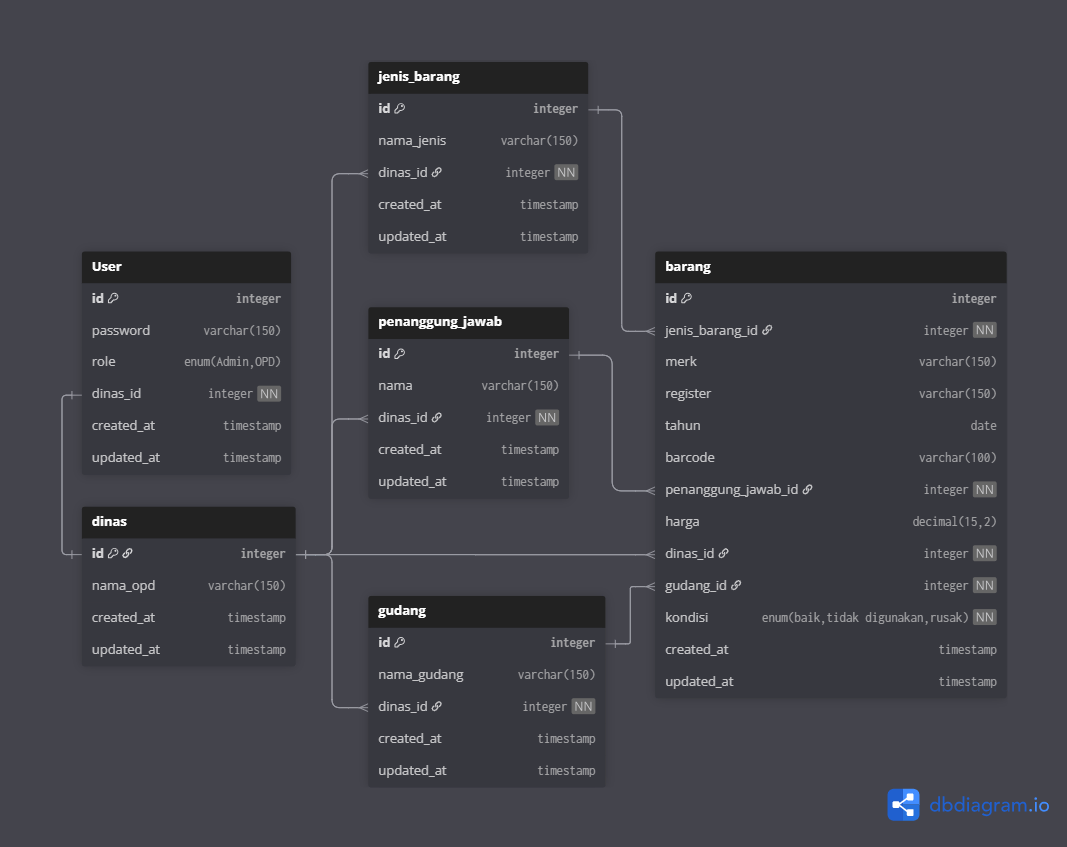
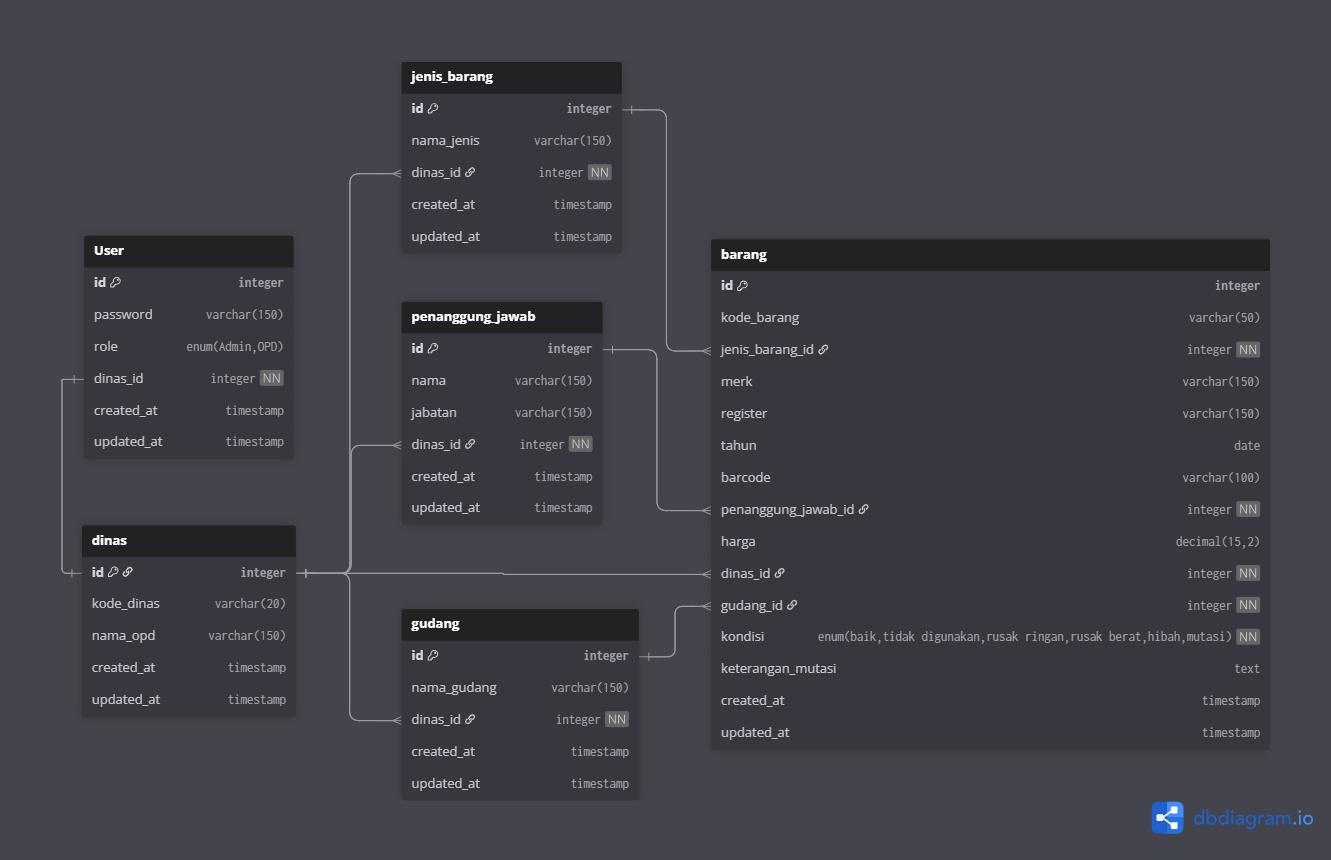
add new feature download report by jenis_aset, add feature filter barang by jenis_aset

diff --git a/app/Filament/Resources/BarangResource.php b/app/Filament/Resources/BarangResource.php
@@ -127,14 +127,49 @@ class BarangResource extends Resource
                     ->image()
                     ->disk('public')
                     ->directory('barang')
-                    ->maxSize(100)
+                    ->maxSize(200)
                     ->required()
                     ->validationMessages([
                         'max' => 'Ukuran file terlalu besar, maksimal 100 KB.',
                     ])
                 ])->columns(2),
 
-                Forms\Components\Section::make('Lokasi & Penanggung Jawab')
+
+                Forms\Components\Section::make('Jenis Aset & Syarat Wajib')
+                    ->schema([
+                       Forms\Components\Select::make('jenis_aset')
+                        ->reactive() 
+                        ->required()
+                        ->options([
+                            'aset tetap' => 'Aset Tetap',
+                            'aset ekstrakompatibel' => 'Aset Ekstrakompatibel',
+                            'aset barjas' => 'Aset Barjas',
+                        ])
+                        ->afterStateUpdated(function ($state, Set $set) {
+                            $set('info_jenis_aset', match ($state) {
+                                'aset tetap' =>
+                                    "Aset berwujud yang digunakan lebih dari 12 bulan dan dicatat dalam neraca.\nContoh: kendaraan, gedung, komputer.",
+                                'aset ekstrakompatibel' =>
+                                    "Barang milik instansi yang tidak dicatat dalam neraca.\nContoh: ATK, buku, perlengkapan habis pakai.",
+                                'aset barjas' =>
+                                    "Barang dan/atau jasa hasil pengadaan.\nDapat menghasilkan aset tetap atau barang habis pakai.",
+                                default => '',
+                            });
+                        }),
+
+
+                        Forms\Components\Placeholder::make('info_jenis_aset')
+                            ->label('Syarat Wajib Terpenuhi Setiap Jenis Aset')
+                            ->content(fn (Get $get) => match ($get('jenis_aset')) {
+                                'aset tetap' => "Aset berwujud yang digunakan lebih dari 12 bulan dan dicatat dalam neraca.\nContoh: kendaraan, gedung, komputer.",
+                                'aset ekstrakompatibel' => "Barang milik instansi yang tidak dicatat dalam neraca.\nContoh: ATK, buku, perlengkapan habis pakai.",
+                                'aset barjas' => "Barang dan/atau jasa hasil pengadaan.\nDapat menghasilkan aset tetap atau barang habis pakai.",
+                                default => '-',
+                            })
+                    ])->columns(2),
+                    
+                
+                    Forms\Components\Section::make('Lokasi & Penanggung Jawab')
                     ->schema([
                         Forms\Components\Select::make('gudang_id')
                             ->label('Lokasi Gudang')
@@ -193,6 +228,9 @@ public static function table(Table $table): Table
                     ->money('IDR')
                     ->sortable(),
 
+                    Tables\Columns\TextColumn::make('jenis_aset')
+                    ->searchable(),
+
                 Tables\Columns\ImageColumn::make('gambar')
                     ->disk('public')
                     ->label('Foto')
@@ -201,11 +239,13 @@ public static function table(Table $table): Table
                 Tables\Columns\TextColumn::make('kondisi')
                     ->badge()
                     ->color(fn (string $state): string => match ($state) {
-                        'baik' => 'success',
-                        'tidak digunakan' => 'warning',
-                        'rusak ringan' => 'danger',
-                        'rusak berat' => 'danger',
-                        default => 'gray',
+                        'baik'             => 'success',
+                        'tidak digunakan'  => 'warning',
+                        'rusak ringan'     => 'warning',
+                        'rusak berat'      => 'danger',
+                        'hibah'            => 'info',
+                        'mutasi'           => 'primary',
+                        default            => 'gray',
                     }),
 
                 Tables\Columns\TextColumn::make('gudang.nama_gudang')
@@ -216,7 +256,16 @@ public static function table(Table $table): Table
                     ->options([
                         'baik' => 'Baik',
                         'tidak digunakan' => 'Tidak Digunakan',
-                        'rusak' => 'Rusak',
+                        'rusak ringan' => 'Rusak Ringan',
+                        'rusak berat' => 'Rusak Berat',
+                        'hibah' => 'Hibah',
+                        'mutasi' => 'Mutasi',
+                    ]),
+                Tables\Filters\SelectFilter::make('jenis_aset')
+                    ->options([
+                        'aset tetap' => 'Aset Tetap',
+                        'aset ekstrakompatibel' => 'Aset Ekstrakompatibel',
+                        'aset barjas' => 'Aset Barjas',
                     ]),
             ])
             ->actions([
@@ -252,7 +301,6 @@ public static function table(Table $table): Table
                     ->label('Download Stiker Terpilih')
                     ->icon('heroicon-o-printer')
                     ->color('success')
-                    // 1. Tambahkan validasi SEBELUM aksi dijalankan
                     ->before(function (Tables\Actions\BulkAction $action, \Illuminate\Support\Collection $records) {
                         if ($records->count() > 50) {
                             \Filament\Notifications\Notification::make()
@@ -261,18 +309,14 @@ public static function table(Table $table): Table
                                 ->body('Maksimal 1 kali download adalah 50 stiker. Anda memilih ' . $records->count() . ' stiker. Silakan kurangi pilihan Anda.')
                                 ->persistent()
                                 ->send();
-
-                            // Membatalkan eksekusi action
                             $action->halt();
                         }
                     })
                     ->action(function (\Illuminate\Support\Collection $records) {
-                        // 2. Optimasi Memori agar tidak gampang exhausted
                         ini_set('memory_limit', '512M');
                         set_time_limit(300);
 
                         $records->transform(function ($barang) {
-                            // Gunakan format PNG untuk stabilitas DomPDF (opsional, tapi seringkali lebih ringan dari SVG)
                             $qrSvg = QrCode::format('svg')
                                 ->size(200)
                                 ->margin(1)

diff --git a/app/Exports/BarangExport.php b/app/Exports/BarangExport.php
@@ -20,7 +20,7 @@ class BarangExport implements FromQuery, WithHeadings, WithMapping
     {
         $query = Barang::query()->with(['dinas', 'gudang', 'jenisBarang']);
 
-        // 1. Logika Filter Dinas (Admin Switcher vs OPD ID)
+        // 1. Logika Filter Dinas (Tetap)
         $role = auth()->user()->role;
         $sessionDinasId = session('admin_dinas_id');
         $userDinasId = auth()->user()->dinas_id;
@@ -31,24 +31,28 @@ class BarangExport implements FromQuery, WithHeadings, WithMapping
             $query->where('dinas_id', $sessionDinasId);
         }
 
-        // 2. Filter Tipe Barang (Rusak, Tidak Digunakan, dll)
+        // 2. Filter Kategori & JENIS ASET (Tambahan)
         if ($this->filters['kategori'] === 'rusak') {
             $query->where('kondisi', 'rusak');
         } elseif ($this->filters['kategori'] === 'tidak_digunakan') {
             $query->where('kondisi', 'tidak digunakan');
+        } elseif ($this->filters['kategori'] === 'jenis_aset' && !empty($this->filters['jenis_aset'])) {
+            // Ini akan memfilter kolom jenis_aset
+            $query->where('jenis_aset', $this->filters['jenis_aset']);
         }
 
-        // 3. Filter Gudang
+        // 3. Filter Gudang (Tetap)
         if (!empty($this->filters['gudang_id'])) {
             $query->where('gudang_id', $this->filters['gudang_id']);
         }
 
-        // 4. Filter Waktu
+        // 4. Filter Waktu (Kombinasi Otomatis)
+        // Logika ini akan tetap jalan meskipun kategori yang dipilih adalah 'jenis_aset'
         if ($this->filters['rentang'] === 'per_bulan' && !empty($this->filters['bulan'])) {
-            $query->whereMonth('created_at', date('m', strtotime($this->filters['bulan'])))
-                  ->whereYear('created_at', date('Y', strtotime($this->filters['bulan'])));
+            $query->whereMonth('tahun', date('m', strtotime($this->filters['bulan'])))
+                ->whereYear('tahun', date('Y', strtotime($this->filters['bulan'])));
         } elseif ($this->filters['rentang'] === 'per_tahun' && !empty($this->filters['tahun'])) {
-            $query->whereYear('created_at', $this->filters['tahun']);
+            $query->whereYear('tahun', $this->filters['tahun']);
         }
 
         return $query;
@@ -56,7 +60,7 @@ class BarangExport implements FromQuery, WithHeadings, WithMapping
 
     public function headings(): array
     {
-        return ['Barcode', 'Nama Barang', 'Merk', 'Kondisi', 'Lokasi Gudang', 'Dinas/OPD', 'Harga', 'Tanggal Masuk'];
+        return ['Barcode', 'Nama Barang', 'Merk', 'Kondisi', 'Lokasi Gudang', 'Dinas/OPD', 'Harga', 'Jenis Aset', 'Tanggal Masuk'];
     }
 
     public function map($barang): array
@@ -69,6 +73,7 @@ class BarangExport implements FromQuery, WithHeadings, WithMapping
             $barang->gudang->nama_gudang ?? '-',
             $barang->dinas->nama_opd ?? '-',
             number_format($barang->harga, 0, ',', '.'),
+            $barang->jenis_aset,
             $barang->created_at->format('d-m-Y'),
         ];
     }

diff --git a/app/Filament/Pages/Laporan.php b/app/Filament/Pages/Laporan.php
@@ -42,14 +42,25 @@ class Laporan extends Page implements HasForms
                             ->label('Jenis Laporan')
                             ->options([
                                 'semua' => 'Semua Barang',
-                                'rusak' => 'Barang Rusak',
+                                'rusak berat' => 'Barang Rusak',
                                 'tidak_digunakan' => 'Barang Tidak Digunakan',
                                 'gudang' => 'Berdasarkan Lokasi Gudang',
+                                'jenis_aset' => 'Berdasarkan Jenis Aset',
                             ])
                             ->live()
                             ->required(),
 
-                        Select::make('gudang_id')
+                        Select::make('jenis_aset')
+                            ->label('Pilih Jenis Aset')
+                            ->options([
+                                'aset tetap' => 'Aset Tetap',
+                                'aset ekstrakompatibel' => 'Aset Ekstrakompatibel',
+                                'aset barjas' => 'Aset Barjas',
+                            ])
+                            ->visible(fn ($get) => $get('kategori') === 'jenis_aset')
+                            ->required(fn ($get) => $get('kategori') === 'jenis_aset'),
+
+                            Select::make('gudang_id')
                             ->label('Pilih Gudang')
                             ->options(function () {
                                 $query = Gudang::query();

diff --git a/database/seeders/DatabaseSeeder.php b/database/seeders/DatabaseSeeder.php
@@ -250,10 +250,11 @@ class DatabaseSeeder extends Seeder
                 ->addDays(rand(0, 60))
                 ->addMinutes(rand(0, 1440));
 
-            // Pilih kondisi secara acak
+            
             $kondisiPilihan = ['baik', 'tidak digunakan', 'rusak ringan', 'rusak berat', 'hibah', 'mutasi'][rand(0, 5)];
 
-            // Logika Keterangan: Hanya isi jika kondisinya 'mutasi'
+            $jenisAsetPilihan = ['aset tetap', 'aset ekstrakompatibel', 'aset barjas'][rand(0, 2)];
+
             $keterangan = null;
             if ($kondisiPilihan === 'mutasi') {
                 $lokasiMutasi = ['Dinas Kesehatan', 'Dinas Pendidikan', 'Kecamatan Nganjuk', 'Sekretariat Daerah'];
@@ -272,7 +273,8 @@ class DatabaseSeeder extends Seeder
                 'gudang_id' => $gudangs->random()->id,
                 'dinas_id' => $dinas->id,
                 'kondisi' => $kondisiPilihan,
-                'keterangan' => $keterangan, // Kolom baru ditambahkan di sini
+                'jenis_aset' => $jenisAsetPilihan, 
+                'keterangan' => $keterangan, 
                 'created_at' => $createdAt,
                 'updated_at' => $updatedAt,
             ]);

diff --git a/app/Filament/Resources/DaftarBarangResource.php b/app/Filament/Resources/DaftarBarangResource.php
@@ -118,6 +118,13 @@ class DaftarBarangResource extends Resource
                         Infolists\Components\TextEntry::make('merk')->label('Nama/Merk'),
                         Infolists\Components\TextEntry::make('barcode')->label('ID Barang'),
                         Infolists\Components\TextEntry::make('kondisi')->badge(),
+                        Infolists\Components\TextEntry::make('keterangan')
+                            ->label('Keterangan Mutasi')
+                            ->badge()
+                            ->color('primary')
+                            ->visible(fn ($record) => $record?->kondisi === 'mutasi'),
+                        Infolists\Components\TextEntry::make('penanggungJawab.nama_jabatan')
+                            ->label('Penanggung Jawab'),
                         Infolists\Components\TextEntry::make('dinas.nama_opd')->label('Pemilik'),
                         Infolists\Components\TextEntry::make('gudang.nama_gudang')->label('Lokasi'),
                         Infolists\Components\ImageEntry::make('qr_visual')

diff --git a/app/Filament/Widgets/KondisiBarangChart.php b/app/Filament/Widgets/KondisiBarangChart.php
@@ -27,7 +27,6 @@ class KondisiBarangChart extends ChartWidget
         $tidakDigunakan = (clone $query)->where('kondisi', 'tidak digunakan')->count();
         $rusakRingan = (clone $query)->where('kondisi', 'rusak ringan')->count();
         $rusakBerat = (clone $query)->where('kondisi', 'rusak berat')->count();
-        $rusakHibah = (clone $query)->where('kondisi', 'hibah')->count();
         $hibah = (clone $query)->where('kondisi', 'hibah')->count();
         $mutasi = (clone $query)->where('kondisi', 'mutasi')->count();
 
@@ -54,7 +53,7 @@ class KondisiBarangChart extends ChartWidget
                     ],
                 ],
             ],
-            'labels' => ['Baik', 'Tidak Digunakan', 'Rusak'],
+            'labels' => ['Baik', 'Tidak Digunakan', 'Rusak Ringan', 'Rusak Berat', 'Hibah', 'Mutasi' ],
         ];
     }
 

diff --git a/app/Models/PenanggungJawab.php b/app/Models/PenanggungJawab.php
@@ -14,6 +14,8 @@ class PenanggungJawab extends Model
 
     protected $fillable = ['nama', 'dinas_id', 'jabatan'];
 
+    protected $appends = ['nama_jabatan'];
+
     public function dinas(): BelongsTo 
     { 
         return $this->belongsTo(Dinas::class); 
@@ -22,5 +24,10 @@ class PenanggungJawab extends Model
     public function barangs(): HasMany
     {
         return $this->hasMany(Barang::class, 'penanggung_jawab_id');
+    }
+
+     public function getNamaJabatanAttribute(): string
+    {
+        return "{$this->nama} - {$this->jabatan}";
     }
 }

diff --git a/database/migrations/2025_12_25_113109_create_barangs_table.php b/database/migrations/2025_12_25_113109_create_barangs_table.php
@@ -25,6 +25,7 @@ return new class extends Migration
             $table->foreignId('dinas_id')->constrained('dinas')->cascadeOnDelete()->restrictOnDelete();
             $table->enum('kondisi', ['baik', 'tidak digunakan', 'rusak ringan', 'rusak berat', 'hibah', 'mutasi']);
             $table->string('keterangan', 150)->nullable();
+            $table->enum('jenis_aset',['aset tetap', 'aset ekstrakompatibel', 'aset barjas']);
             $table->timestamps();
         });
     }

diff --git a/app/Models/Barang.php b/app/Models/Barang.php
@@ -26,6 +26,7 @@ class Barang extends Model
         'dinas_id',
         'kondisi',
         'keterangan',
+        'jenis_aset',
         'created_at',
         'update_at',
     ];
